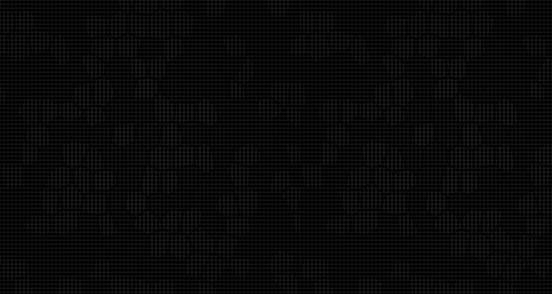
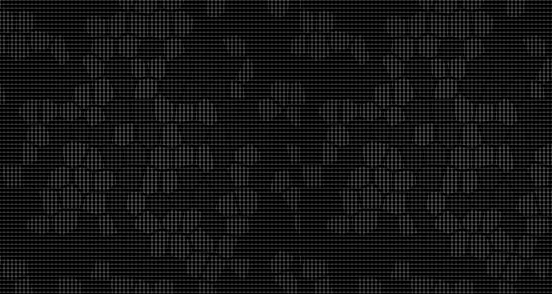
Bootstrap added. Layout and style update on home#index. Tracks#index layout broken as expected.

Changed region(s): [[0.0, 0.0, 1.0, 1.0]]

diff --git a/app/assets/stylesheets/style.scss b/app/assets/stylesheets/style.scss
@@ -1,8 +1,101 @@
-$white: rgba(230, 230, 230, .8);
+@import 'variables';
+
+// Fonts
+
+@font-face {
+  font-family: 'Graffonti-3d';
+  src:         font-url('fonts/graffonti/Graffonti-3d.ttf');
+}
+@font-face {
+  font-family: 'Alegreya-Regular';
+  src:         font-url('fonts/Alegreya/Alegreya-Regular.ttf');
+}
+
+// Element Styles
+
+body {
+  background-color: black;
+  background-image: asset-data-url('mosaic.jpg');
+  font-family:      'Alegreya-Regular';
+  color:            $white;
+}
+
+h1 {
+  font-family: 'Graffonti-3d';
+  color:       $red;
+  font-size:   5em;
+}
+
+fieldset {
+  border:        1px solid $grey;
+  border-radius: 1em;
+}
+
+legend {
+  width:         auto;
+  border:        none;
+  margin-left:   2em;
+  margin-bottom: 0em;
+  color:         inherit;
+  font-size:     1.1em;
+}
+
+button {
+  font-size:        2em;
+  background-color: $black;
+  color:            $red;
+  font-family:      'Graffonti-3d';
+  border:           none;
+  &:hover {
+    color: $yellow;
+  }
+  &:focus {
+    outline: none;
+  }
+}
+
+// Bootstrap Customizations
+
+.form-control {
+  background-color: $grey;
+  color:            $white;
+  border:           none;
+  // Restore bootstrap defaults on focus.
+  &:focus {
+    border:        1px solid $input-border;
+    border-radius: 4px;
+  }
+}
+
+
+// Original Styles
+
+.section {
+  padding-top:    3em;
+  padding-bottom: 3em;
+}
+
+.search-header {
+  padding-bottom: 0.5em;
+}
+
+.console {
+  background-color: $black-translucent;
+  border-radius:    1em;
+  margin-bottom:    1em;
+}
+
+.asterisk {
+  color: $red;
+}
+
+.spinner {
+  max-width: 50%;
+}
+
+/*
 $panel-background-color: rgba(7, 7, 7, .68);
 $font-red: #a4111f;
-$grey-highlight: rgba(20, 20, 20, 1);
-$black: rgba(2, 2, 2, .9);
 $blackish: rgba(7, 7, 7, .9);
 $yellow: rgba(175, 150, 0, 1);
 
@@ -13,10 +106,6 @@ $yellow: rgba(175, 150, 0, 1);
 @font-face {
   font-family: "Nunito-Bold";
   src: font-url("fonts/Nunito/Nunito-Bold.ttf");
-}
-@font-face {
-  font-family: "Alegreya-Regular";
-  src: font-url("fonts/Alegreya/Alegreya-Regular.ttf");
 }
 @font-face {
   font-family: "Graffonti-Gradient";
@@ -38,7 +127,6 @@ body {
 .search-container {
   width: 1200px;
   margin: 0px auto;
-  background-image: asset-data-url("mosaic.jpg");
   .search-console {
     position: center;
     .search-header {
@@ -309,3 +397,5 @@ td {
     margin: 0px 8px 0px 0px;
   }
 }
+
+*/

diff --git a/app/assets/javascripts/tracks_index.js b/app/assets/javascripts/tracks_index.js
@@ -8,14 +8,18 @@
   var spinTimer;
   var spinCounter = 0;
 
-  $(document).ready(initialize);
+  document.addEventListener('turbolinks:load', initialize);
 
   function initialize() {
-    soundCloudClientId = $('.search-container').data('soundcloud-client-id');
-    SC.initialize({client_id: soundCloudClientId, redirect_uri: 'localhost:3000/callback'});
-    SC.connect(function() { SC.get('/me', function(me) {}); });
+    initSoundCloud();
     setTableHeaders();
     defineEvents();
+  }
+  function initSoundCloud() {
+    soundCloudClientId = $('.search-container').data('soundcloud-client-id');
+    if (!soundCloudClientId) { return; }
+    SC.initialize({client_id: soundCloudClientId, redirect_uri: 'localhost:3000/callback'});
+    SC.connect(function() { SC.get('/me', function(me) {}); });
   }
   function setTableHeaders() {
     $('.search-column-title-head').width($('.search-column-title').width());
@@ -29,7 +33,7 @@
     $('.turntable-play-button').click(playTrack);
     $('.turntable-pause-button').click(pauseTrack);
     $('.turntable-waveform-interface').click(adjustTime);
-    $('form > button').click(spinIt);
+    $('form#search').submit(spinIt);
     $('.download-button').click(download);
   }
   function loadTurnTable() {
@@ -228,7 +232,7 @@
       songProgressTimerRightFunction();
     }
   }
-  function spinIt() {
+  function spinIt(event) {
     spinTimer = setInterval(spinTimerFunction, 1);
   }
   function spinTimerFunction() {

diff --git a/app/assets/stylesheets/variables.scss b/app/assets/stylesheets/variables.scss
@@ -1,0 +1,7 @@
+$white:             rgba(230, 230, 230, .8);
+$red:               #a4111f;
+$grey:              rgba(40, 40, 40, 1);
+$black:             rgba(2, 2, 2, 1);
+$black-translucent: rgba(2, 2, 2, .6);
+$red:               #a4111f;
+$yellow: rgba(175, 150, 0, 1);

diff --git a/app/assets/stylesheets/application.scss b/app/assets/stylesheets/application.scss
@@ -1,0 +1,5 @@
+@import "bootstrap-sprockets";
+@import "bootstrap";
+@import './jquery.jscrollpane.css';
+
+@import './style';

diff --git a/app/assets/javascripts/application.js b/app/assets/javascripts/application.js
@@ -16,3 +16,4 @@
 //= require_tree .
 //= require sdk
 //= require lodash
+//= require bootstrap-sprockets
